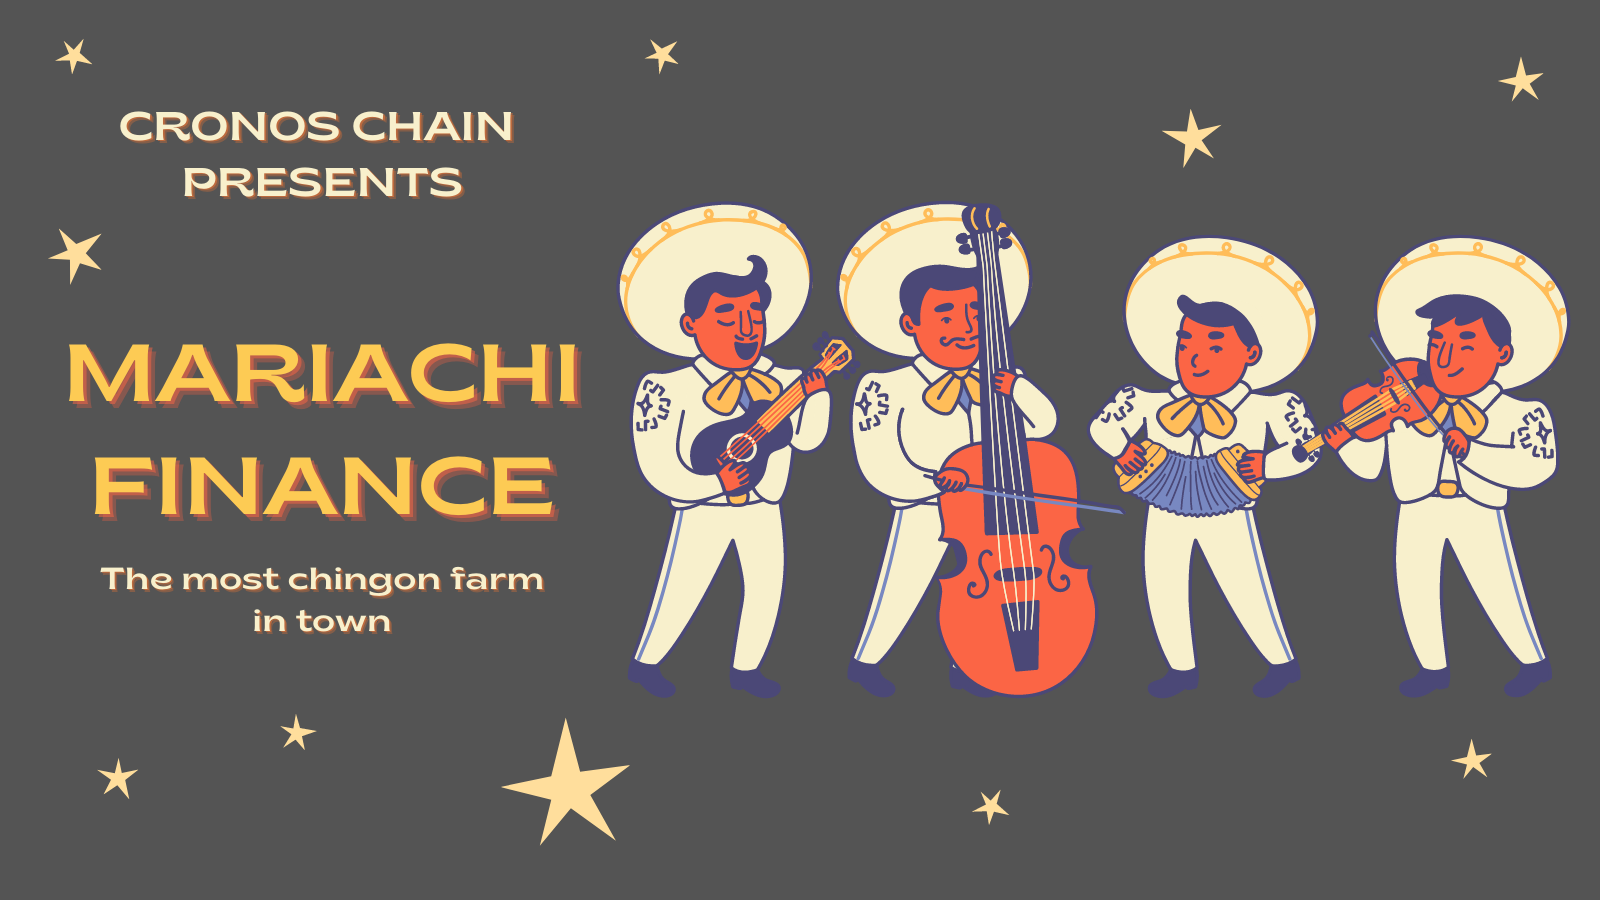
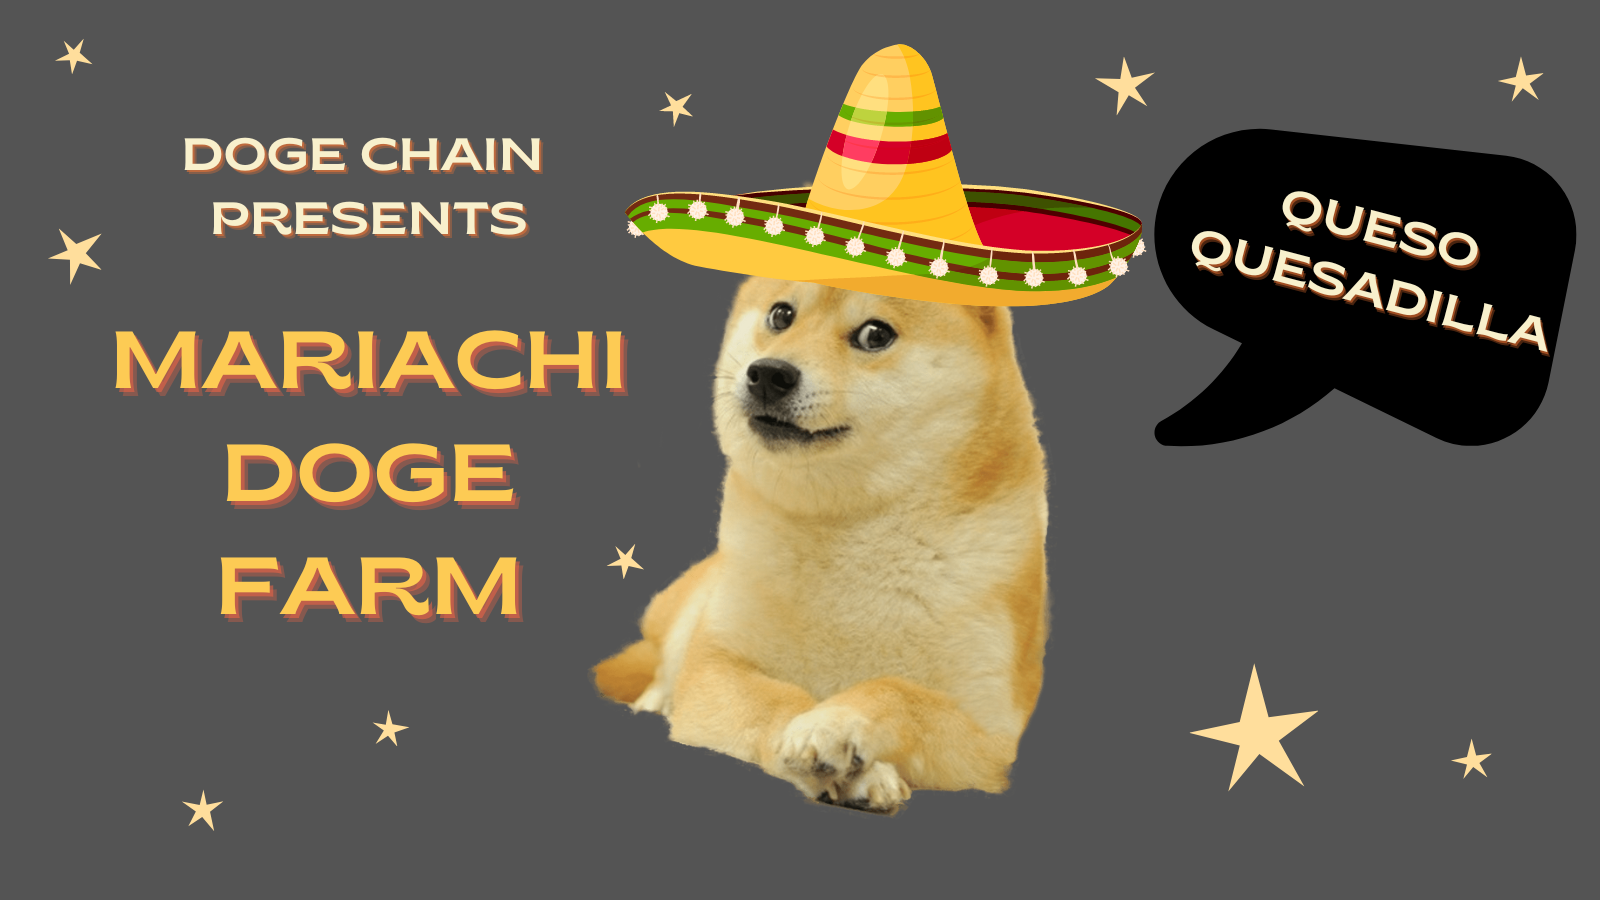
Changed to Doge

diff --git a/index.html b/index.html
@@ -1,1 +1,1 @@
-<!doctype html><html lang="en"><head><meta charset="utf-8"/><link rel="preconnect" href="https://evm-cronos.crypto.org"/><link rel="preconnect" href="https://evm-cronos.crypto.org"/><link rel="preconnect" href="https://evm-cronos.crypto.org"/><link rel="preconnect" href="https://fonts.gstatic.com"/><link href="https://fonts.googleapis.com/css2?family=Kanit:wght@400;600&display=swap" rel="stylesheet"/><link rel="shortcut icon" href="/favicon.ico"/><link rel="apple-touch-icon" href="/logo.png"/><link rel="manifest" href="/manifest.json"/><title>Mariachi Finance</title><meta name="description" content="Earn MARIACHIS in the most drunkard CRONOS platform! Margaritas for ladies, Tequila shots for gentlemen!"/><meta name="viewport" content="width=device-width,initial-scale=1,maximum-scale=5,minimum-scale=1"/><meta name="theme-color" content="#1FC7D4"/><meta name="twitter:image" content="./images/hero.png"/><meta name="twitter:description" content="Earn MARIACHIS in the most drunkard CRONOS platform! Margaritas for ladies, Tequila shots for gentlemen!"/><meta name="twitter:card" content="summary_large_image"/><meta name="twitter:title" content="🌶 Mariachi Finance - The most drunkard DeFi on CRONOS"/></head><body><noscript>You need to enable JavaScript to run this app.</noscript><div id="root"></div><div id="portal-root"></div><script>!function(e){function r(r){for(var n,u,i=r[0],c=r[1],f=r[2],p=0,s=[];p<i.length;p++)u=i[p],Object.prototype.hasOwnProperty.call(o,u)&&o[u]&&s.push(o[u][0]),o[u]=0;for(n in c)Object.prototype.hasOwnProperty.call(c,n)&&(e[n]=c[n]);for(l&&l(r);s.length;)s.shift()();return a.push.apply(a,f||[]),t()}function t(){for(var e,r=0;r<a.length;r++){for(var t=a[r],n=!0,i=1;i<t.length;i++){var c=t[i];0!==o[c]&&(n=!1)}n&&(a.splice(r--,1),e=u(u.s=t[0]))}return e}var n={},o={1:0},a=[];function u(r){if(n[r])return n[r].exports;var t=n[r]={i:r,l:!1,exports:{}};return e[r].call(t.exports,t,t.exports,u),t.l=!0,t.exports}u.e=function(e){var r=[],t=o[e];if(0!==t)if(t)r.push(t[2]);else{var n=new Promise((function(r,n){t=o[e]=[r,n]}));r.push(t[2]=n);var a,i=document.createElement("script");i.charset="utf-8",i.timeout=120,u.nc&&i.setAttribute("nonce",u.nc),i.src=function(e){return u.p+"static/js/"+({}[e]||e)+"."+{3:"65842af9",4:"ded0cdb0",5:"0404f6fa",6:"03507a0d",7:"8b105fb7",8:"ab6fe5a1"}[e]+".chunk.js"}(e);var c=new Error;a=function(r){i.onerror=i.onload=null,clearTimeout(f);var t=o[e];if(0!==t){if(t){var n=r&&("load"===r.type?"missing":r.type),a=r&&r.target&&r.target.src;c.message="Loading chunk "+e+" failed.\n("+n+": "+a+")",c.name="ChunkLoadError",c.type=n,c.request=a,t[1](c)}o[e]=void 0}};var f=setTimeout((function(){a({type:"timeout",target:i})}),12e4);i.onerror=i.onload=a,document.head.appendChild(i)}return Promise.all(r)},u.m=e,u.c=n,u.d=function(e,r,t){u.o(e,r)||Object.defineProperty(e,r,{enumerable:!0,get:t})},u.r=function(e){"undefined"!=typeof Symbol&&Symbol.toStringTag&&Object.defineProperty(e,Symbol.toStringTag,{value:"Module"}),Object.defineProperty(e,"__esModule",{value:!0})},u.t=function(e,r){if(1&r&&(e=u(e)),8&r)return e;if(4&r&&"object"==typeof e&&e&&e.__esModule)return e;var t=Object.create(null);if(u.r(t),Object.defineProperty(t,"default",{enumerable:!0,value:e}),2&r&&"string"!=typeof e)for(var n in e)u.d(t,n,function(r){return e[r]}.bind(null,n));return t},u.n=function(e){var r=e&&e.__esModule?function(){return e.default}:function(){return e};return u.d(r,"a",r),r},u.o=function(e,r){return Object.prototype.hasOwnProperty.call(e,r)},u.p="/",u.oe=function(e){throw console.error(e),e};var i=this["webpackJsonppancake-frontend"]=this["webpackJsonppancake-frontend"]||[],c=i.push.bind(i);i.push=r,i=i.slice();for(var f=0;f<i.length;f++)r(i[f]);var l=c;t()}([])</script><script src="/static/js/2.a428b4f7.chunk.js"></script><script src="/static/js/main.4f9024e0.chunk.js"></script></body></html>
+<!doctype html><html lang="en"><head><meta charset="utf-8"/><link rel="preconnect" href="https://rpc01-sg.dogechain.dog"/><link rel="preconnect" href="https://rpc01-sg.dogechain.dog"/><link rel="preconnect" href="https://rpc01-sg.dogechain.dog"/><link rel="preconnect" href="https://fonts.gstatic.com"/><link href="https://fonts.googleapis.com/css2?family=Kanit:wght@400;600&display=swap" rel="stylesheet"/><link rel="shortcut icon" href="/favicon.ico"/><link rel="apple-touch-icon" href="/logo.png"/><link rel="manifest" href="/manifest.json"/><title>Mariachi Doge</title><meta name="description" content="Earn MARIACHIs in the most drunkard DOGE Chain platform! Margaritas for ladies, Tequila shots for gentlemen!"/><meta name="viewport" content="width=device-width,initial-scale=1,maximum-scale=5,minimum-scale=1"/><meta name="theme-color" content="#1FC7D4"/><meta name="twitter:image" content="./images/hero.png"/><meta name="twitter:description" content="Earn MARIACHIs in the most drunkard DOGE Chain platform! Margaritas for ladies, Tequila shots for gentlemen!"/><meta name="twitter:card" content="summary_large_image"/><meta name="twitter:title" content="🌶 Mariachi Doge - The most drunkard DeFi on DOGE Chain"/></head><body><noscript>You need to enable JavaScript to run this app.</noscript><div id="root"></div><div id="portal-root"></div><script>!function(e){function r(r){for(var n,a,i=r[0],c=r[1],f=r[2],p=0,s=[];p<i.length;p++)a=i[p],Object.prototype.hasOwnProperty.call(o,a)&&o[a]&&s.push(o[a][0]),o[a]=0;for(n in c)Object.prototype.hasOwnProperty.call(c,n)&&(e[n]=c[n]);for(l&&l(r);s.length;)s.shift()();return u.push.apply(u,f||[]),t()}function t(){for(var e,r=0;r<u.length;r++){for(var t=u[r],n=!0,i=1;i<t.length;i++){var c=t[i];0!==o[c]&&(n=!1)}n&&(u.splice(r--,1),e=a(a.s=t[0]))}return e}var n={},o={1:0},u=[];function a(r){if(n[r])return n[r].exports;var t=n[r]={i:r,l:!1,exports:{}};return e[r].call(t.exports,t,t.exports,a),t.l=!0,t.exports}a.e=function(e){var r=[],t=o[e];if(0!==t)if(t)r.push(t[2]);else{var n=new Promise((function(r,n){t=o[e]=[r,n]}));r.push(t[2]=n);var u,i=document.createElement("script");i.charset="utf-8",i.timeout=120,a.nc&&i.setAttribute("nonce",a.nc),i.src=function(e){return a.p+"static/js/"+({}[e]||e)+"."+{3:"4feeb98b",4:"56cae99c",5:"e4ddbe89",6:"824b79c0",7:"4c52a813",8:"887f6204"}[e]+".chunk.js"}(e);var c=new Error;u=function(r){i.onerror=i.onload=null,clearTimeout(f);var t=o[e];if(0!==t){if(t){var n=r&&("load"===r.type?"missing":r.type),u=r&&r.target&&r.target.src;c.message="Loading chunk "+e+" failed.\n("+n+": "+u+")",c.name="ChunkLoadError",c.type=n,c.request=u,t[1](c)}o[e]=void 0}};var f=setTimeout((function(){u({type:"timeout",target:i})}),12e4);i.onerror=i.onload=u,document.head.appendChild(i)}return Promise.all(r)},a.m=e,a.c=n,a.d=function(e,r,t){a.o(e,r)||Object.defineProperty(e,r,{enumerable:!0,get:t})},a.r=function(e){"undefined"!=typeof Symbol&&Symbol.toStringTag&&Object.defineProperty(e,Symbol.toStringTag,{value:"Module"}),Object.defineProperty(e,"__esModule",{value:!0})},a.t=function(e,r){if(1&r&&(e=a(e)),8&r)return e;if(4&r&&"object"==typeof e&&e&&e.__esModule)return e;var t=Object.create(null);if(a.r(t),Object.defineProperty(t,"default",{enumerable:!0,value:e}),2&r&&"string"!=typeof e)for(var n in e)a.d(t,n,function(r){return e[r]}.bind(null,n));return t},a.n=function(e){var r=e&&e.__esModule?function(){return e.default}:function(){return e};return a.d(r,"a",r),r},a.o=function(e,r){return Object.prototype.hasOwnProperty.call(e,r)},a.p="/",a.oe=function(e){throw console.error(e),e};var i=this["webpackJsonppancake-frontend"]=this["webpackJsonppancake-frontend"]||[],c=i.push.bind(i);i.push=r,i=i.slice();for(var f=0;f<i.length;f++)r(i[f]);var l=c;t()}([])</script><script src="/static/js/2.612e48c7.chunk.js"></script><script src="/static/js/main.fafe533d.chunk.js"></script></body></html>
